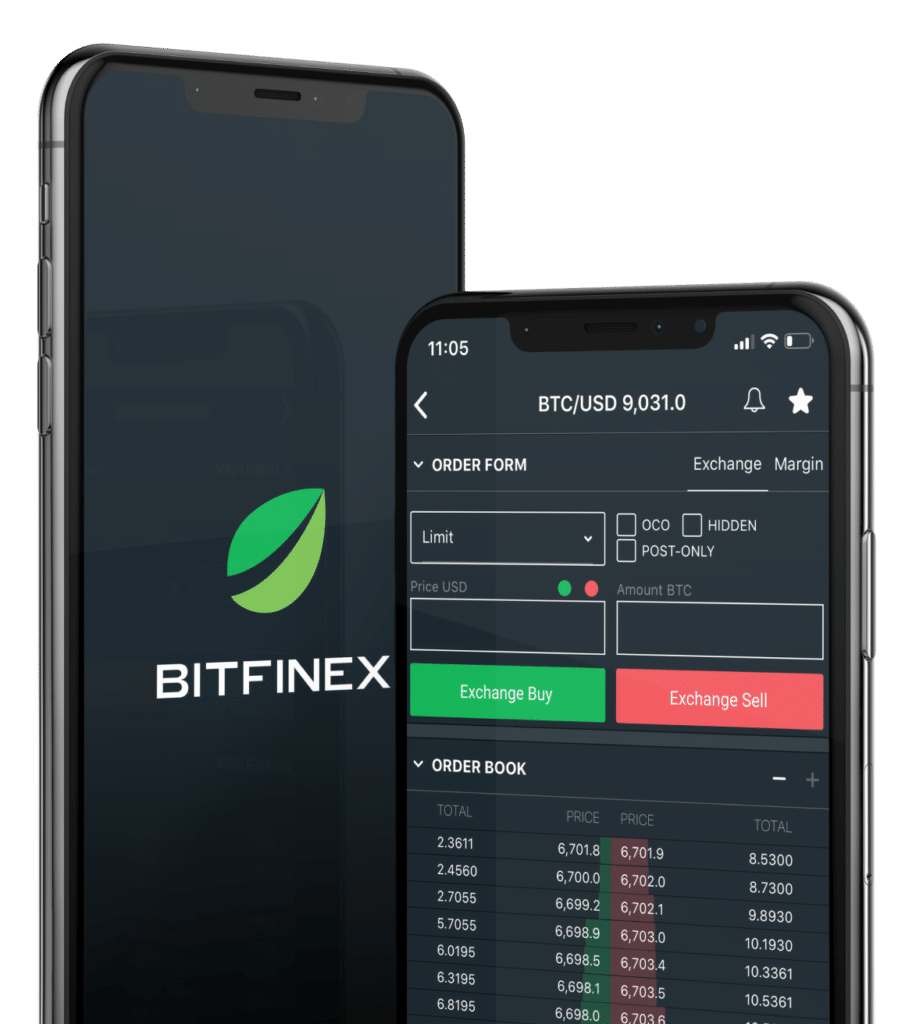
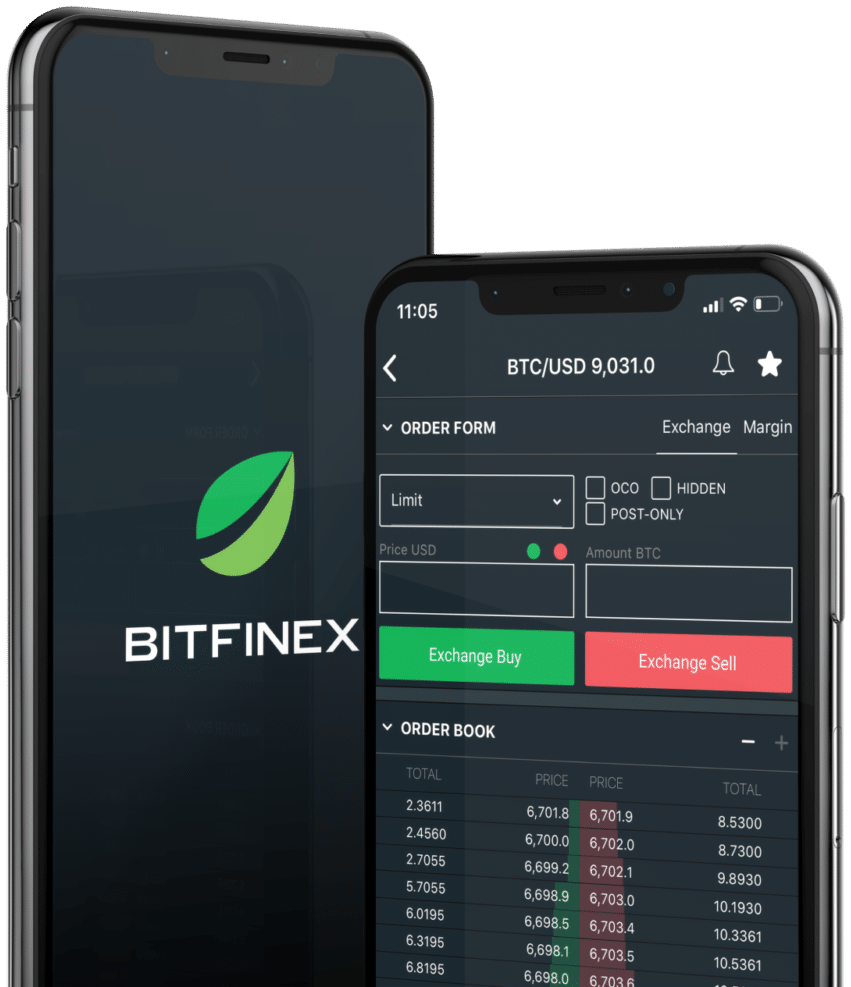
image update

Changed region(s): [[0.0, 0.0, 1.0, 1.0], [0.5805, 0.7599, 0.7638, 1.0]]

diff --git a/src/dist/style.css b/src/dist/style.css
@@ -145,12 +145,14 @@ a:hover {
 .choose-us-body {
   display: flex;
   flex-direction: row;
+  gap: 1rem;
+  align-items: center;
 }
 
 .choose-us-reasons {
   display: flex;
   flex-direction: column;
-  gap: 1.5rem;
+  gap: 2rem;
 }
 
 .choose-reason {
@@ -174,14 +176,14 @@ a:hover {
 }
 
 .choose-us-img img {
-  width: 30rem;
+  width: 20rem;
 }
 
 .choose-reason-text {
   background: transparent;
 }
 .choose-reason-text h2 {
-  margin-bottom: 0.5rem;
+  margin-bottom: 1rem;
   background: transparent;
   font-size: 1.4rem;
 }

diff --git a/src/components/HomeComp/_homeStyle.scss b/src/components/HomeComp/_homeStyle.scss
@@ -61,12 +61,14 @@
 .choose-us-body {
   display: flex;
   flex-direction: row;
+  gap: 1rem;
+  align-items: center;
 }
 
 .choose-us-reasons {
   display: flex;
   flex-direction: column;
-  gap: 1.5rem;
+  gap: 2rem;
 }
 
 .choose-reason {
@@ -92,14 +94,14 @@
 
 .choose-us-img {
   img {
-    width: 30rem;
+    width: 20rem;
   }
 }
 
 .choose-reason-text {
   background: transparent;
   h2 {
-    margin-bottom: 0.5rem;
+    margin-bottom: 1rem;
     background: transparent;
     font-size: 1.4rem;
   }

diff --git a/src/components/HomeComp/HomeComp.ChooseUs/ChooseUs.jsx b/src/components/HomeComp/HomeComp.ChooseUs/ChooseUs.jsx
@@ -1,5 +1,6 @@
 import homeSvg from "svg/homeSvg";
-import homeBtf from "img/homePage/homeBtf.png";
+// import homeBtf from "img/homePage/homeBtf.png";
+import homeBtf from "img/homePage/test2.png";
 export default function ChooseUs() {
   return (
     <div id="choose-us-screen">
